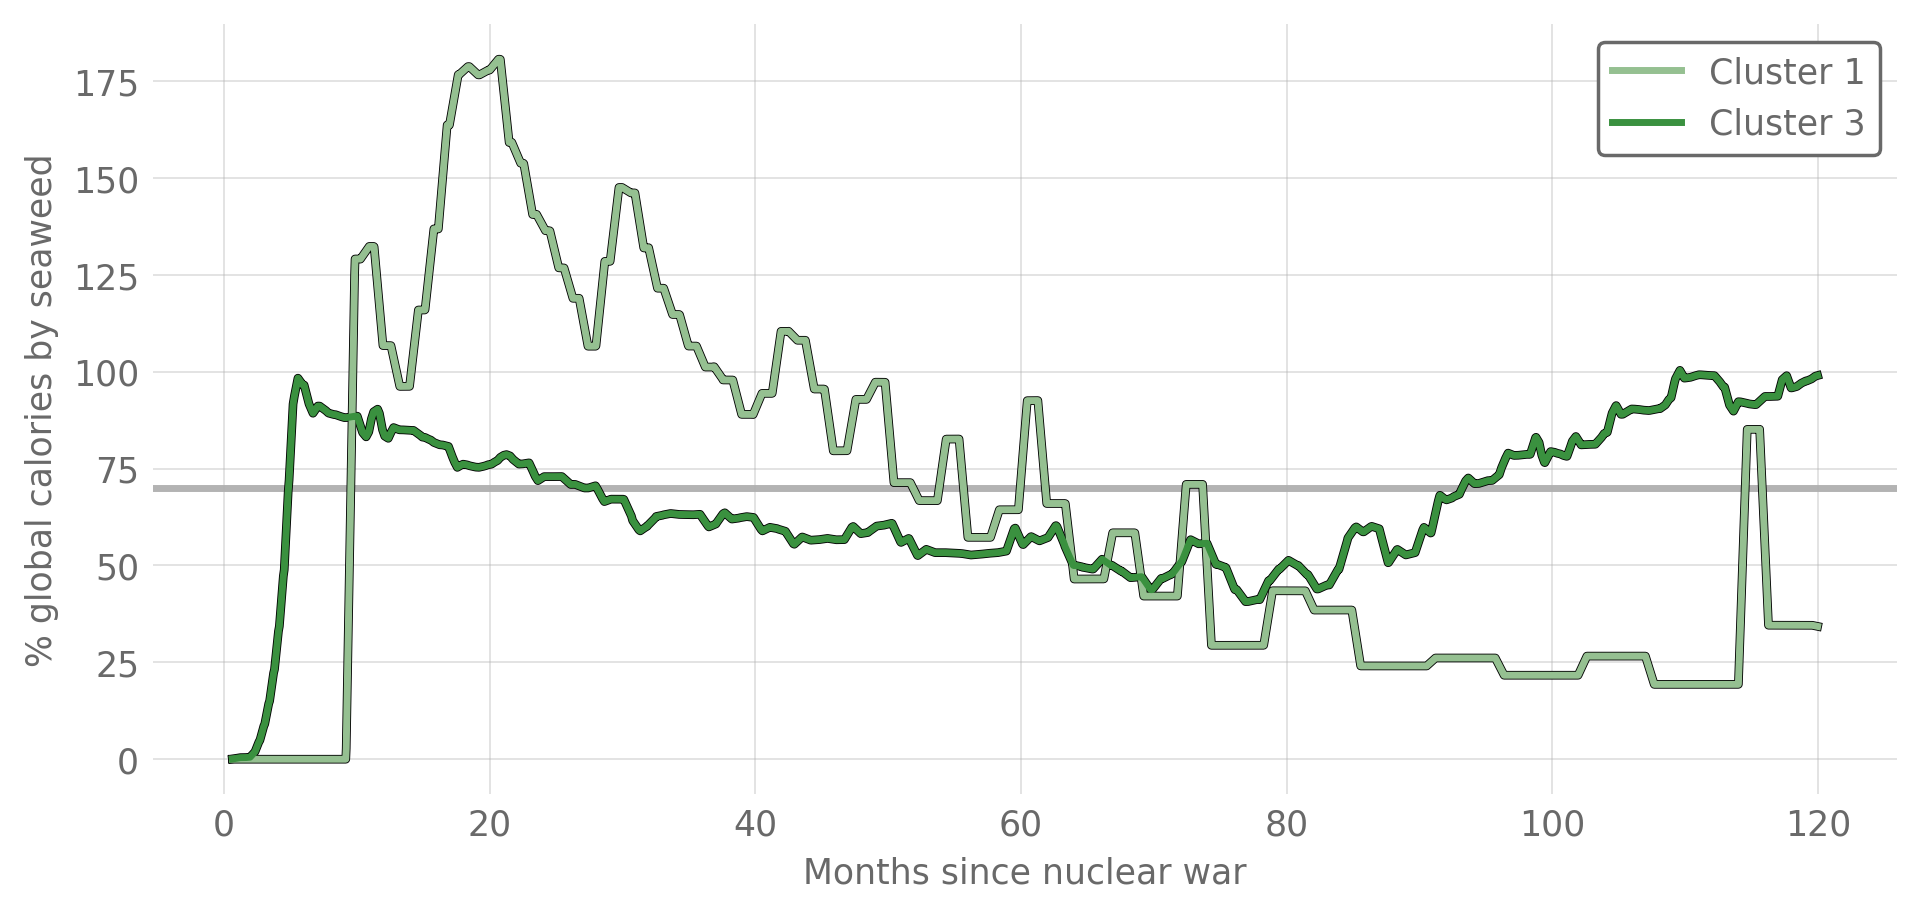
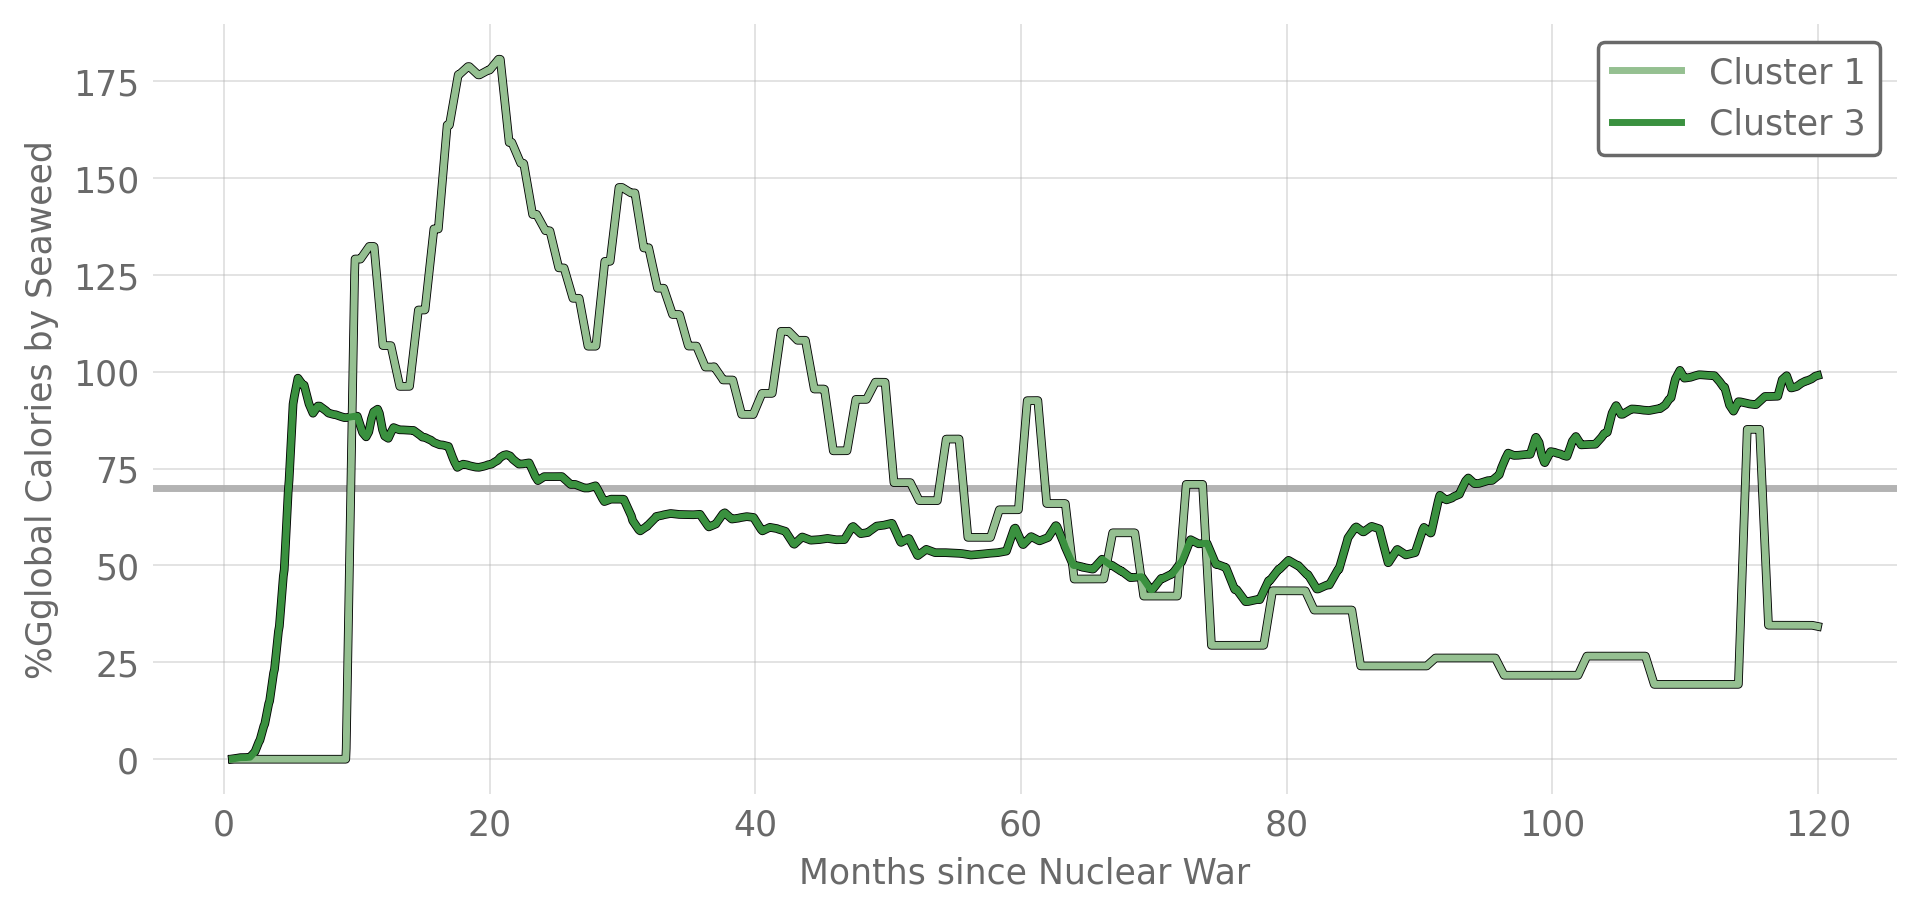
Capitalized letters

Changed region(s): [[0.0, 0.153, 0.0312, 0.7344], [0.406, 0.918, 0.5622, 0.9792], [0.6247, 0.918, 0.6559, 0.9792]]

diff --git a/src/plotter.py b/src/plotter.py
@@ -59,8 +59,8 @@ def plot_satisfaction_results(clusters, percent_need):
         color=["#95c091", "#3A913F"], linewidth=2, ax=ax, label=["Cluster 1", "Cluster 3"]
     )
     ax.axhline(y=percent_need, color="dimgrey", alpha=0.5, zorder=0)
-    ax.set_xlabel("Months since nuclear war")
-    ax.set_ylabel("% global calories by seaweed")
+    ax.set_xlabel("Months since Nuclear War")
+    ax.set_ylabel("%Gglobal Calories by Seaweed")
     fig = plt.gcf()
     fig.set_size_inches(9, 4)
     plt.savefig("results/food_satisfaction.png", dpi=250, bbox_inches="tight")
